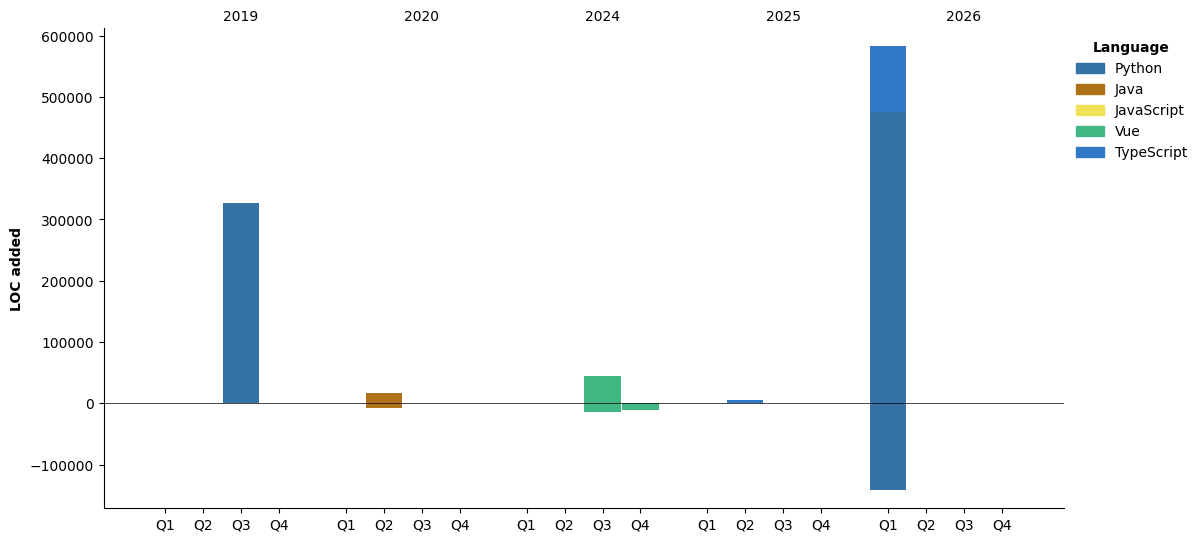
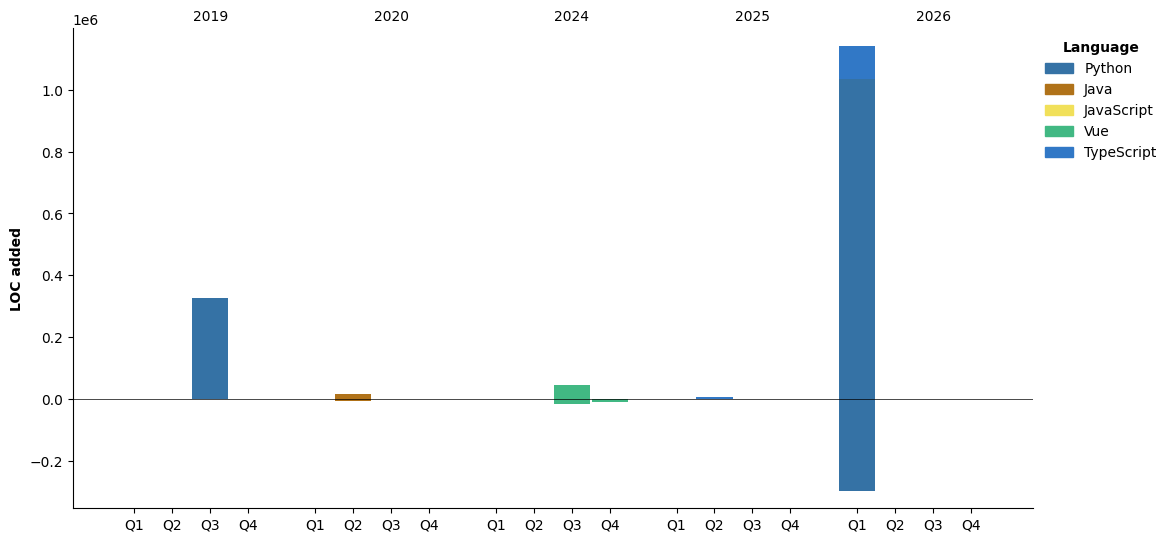
Updated with Dev Metrics

diff --git a/README.md b/README.md
@@ -158,13 +158,13 @@ task → step → policy → approval → scoped authority → execution → rec
 
 ![Profile Views](http://img.shields.io/badge/Profile%20Views-3-blue?style=flat)
 
-![Lines of code](https://img.shields.io/badge/From%20Hello%20World%20I%27ve%20Written-979.63%20thousand%20lines%20of%20code-blue?style=flat)
+![Lines of code](https://img.shields.io/badge/From%20Hello%20World%20I%27ve%20Written-1.54%20million%20lines%20of%20code-blue?style=flat)
 
 **🐱 My GitHub Data** 
 
-> 📦 191.0 kB Used in GitHub's Storage 
+> 📦 191.7 kB Used in GitHub's Storage 
  > 
-> 🏆 158 Contributions in the Year 2026
+> 🏆 160 Contributions in the Year 2026
  > 
 > 🚫 Not Opted to Hire
  > 
@@ -175,21 +175,21 @@ task → step → policy → approval → scoped authority → execution → rec
 **I'm an Early 🐤** 
 
 ```text
-🌞 Morning                72 commits          ████░░░░░░░░░░░░░░░░░░░░░   14.72 % 
-🌆 Daytime                248 commits         █████████████░░░░░░░░░░░░   50.72 % 
-🌃 Evening                150 commits         ████████░░░░░░░░░░░░░░░░░   30.67 % 
-🌙 Night                  19 commits          █░░░░░░░░░░░░░░░░░░░░░░░░   03.89 % 
+🌞 Morning                105 commits         ████░░░░░░░░░░░░░░░░░░░░░   14.08 % 
+🌆 Daytime                387 commits         █████████████░░░░░░░░░░░░   51.88 % 
+🌃 Evening                219 commits         ███████░░░░░░░░░░░░░░░░░░   29.36 % 
+🌙 Night                  35 commits          █░░░░░░░░░░░░░░░░░░░░░░░░   04.69 % 
 ```
 📅 **I'm Most Productive on Tuesday** 
 
 ```text
-Monday                   64 commits          ███░░░░░░░░░░░░░░░░░░░░░░   13.09 % 
-Tuesday                  126 commits         ██████░░░░░░░░░░░░░░░░░░░   25.77 % 
-Wednesday                89 commits          █████░░░░░░░░░░░░░░░░░░░░   18.20 % 
-Thursday                 53 commits          ███░░░░░░░░░░░░░░░░░░░░░░   10.84 % 
-Friday                   47 commits          ██░░░░░░░░░░░░░░░░░░░░░░░   09.61 % 
-Saturday                 44 commits          ██░░░░░░░░░░░░░░░░░░░░░░░   09.00 % 
-Sunday                   66 commits          ███░░░░░░░░░░░░░░░░░░░░░░   13.50 % 
+Monday                   86 commits          ███░░░░░░░░░░░░░░░░░░░░░░   11.53 % 
+Tuesday                  208 commits         ███████░░░░░░░░░░░░░░░░░░   27.88 % 
+Wednesday                146 commits         █████░░░░░░░░░░░░░░░░░░░░   19.57 % 
+Thursday                 95 commits          ███░░░░░░░░░░░░░░░░░░░░░░   12.73 % 
+Friday                   55 commits          ██░░░░░░░░░░░░░░░░░░░░░░░   07.37 % 
+Saturday                 54 commits          ██░░░░░░░░░░░░░░░░░░░░░░░   07.24 % 
+Sunday                   102 commits         ███░░░░░░░░░░░░░░░░░░░░░░   13.67 % 
 ```
 
 
@@ -205,7 +205,7 @@ No Activity Tracked This Week
 ![Lines of Code chart](https://raw.githubusercontent.com/heggria/heggria/main/assets/bar_graph.png)
 
 
- Last Updated on 18/03/2026 19:30:34 UTC
+ Last Updated on 19/03/2026 19:29:25 UTC
 <!--END_SECTION:waka-->
 
 </details>
